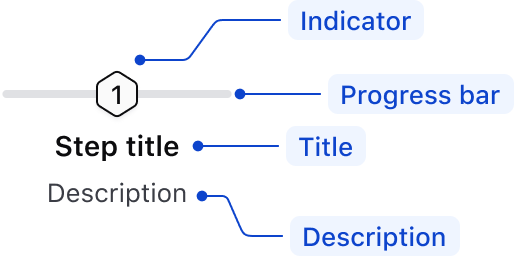
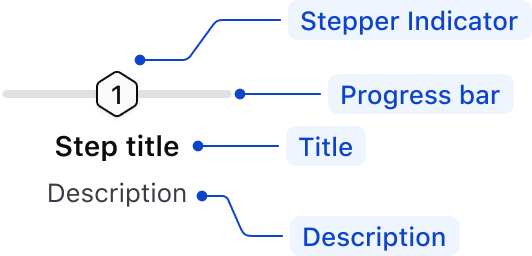
Updated text and images for Stepper Nav

diff --git a/website/docs/components/stepper/nav/partials/guidelines/guidelines.md b/website/docs/components/stepper/nav/partials/guidelines/guidelines.md
@@ -3,28 +3,48 @@
 ### When to use
 
 - In complex flows that are broken up into multiple steps to more easily segment content.
-- To communicate progress in a mult-step flow; what has been completed, and what has yet to be completed.
+- To communicate what has and has not been completed in a mult-step flow.
 - For a single, on-page experience that requires completion.
 
 ### When not to use 
 
-- Non-complex flow, use the [form pattern](/patterns/form-patterns) on a single page.
-- Don't require specific progress tracking, use structured page content.
+- For non-complex flows, use the [form pattern](/patterns/form-patterns) on a single page.
+- For simple forms or when progress doesn't need to be tracked, use structured page content.
 - For progression that doesn’t require a user to remain on the page for, use the [Stepper List](/components/stepper/list).
+
+## Interactive vs non-interactive
+
+The Stepper Nav allows for both interactive (default) and non-interactive variants. 
+
+### Interactive steps
+
+A user is able to navigate backwards within the Stepper Nav, however, they cannot progress forward. The reason for this is to ensure consistency in behavior and no dirty forms exist.
+
+![](/assets/components/stepper/navigation/stepper-navigation-interactive-steps.png)
+
+![The user's mouse is hovering over step one of four, showing its hover state.](/assets/components/stepper/navigation/stepper-navigation-interactive-backwards-movement.png)
+
+### Non-interactive steps
+
+The non-interactive variant is for read-only purposes and does not allow backwards navigation within the Stepper Nav.
+
+![](/assets/components/stepper/navigation/stepper-navigation-non-interactive-steps.png)
 
 ## Content
 
-Content in the Stepper should be brief and to the point. The Stepper has a title and an optional description.
+The Stepper Nav has a title and an optional description. Content should be brief and to the point.
 
 ### Title
 
-Titles are required and help users understand, from an overview perspective, what tasks need to be completed. Titles should be brief, and only a couple of words.
+Titles provide an overview to help users understand what tasks need to be completed. Titles are required and should be brief.
 
 ### Description
 
-Descriptions are optional and should be brief and provide additional context to the title. We recommend that all steps either have a description or none do.
+Descriptions are optional. They should provide additional context but be brief. We recommend that all steps either have a description or do not.
 
 !!! Do
+
+Ensure description visibility is consistent.
 
 ![The stepper with descriptions enabled in every step.](/assets/components/stepper/navigation/stepper-navigation-description-do.png)
 
@@ -32,32 +52,36 @@ Descriptions are optional and should be brief and provide additional context to 
 
 !!! Dont
 
+Don't mix and match description visibility.
+
 ![Steps one and four with enabled descriptions, while two and three have only a title.](/assets/components/stepper/navigation/stepper-navigation-description-dont.png)
 
 !!!
 
 ### Number of steps
 
-It is recommended that the max number of steps be 4, however if that isn’t possible, be mindful of how the content within the title and description wraps in smaller screens.
-
-## Interactive vs non-interactive
-
-The Stepper Nav allows for both interactive (default) and non-interactive variants. Once a user navigates backward with the interactive variant, they cannot progress forward through the Stepper. The Non-interactive variant is for read-only purposes and does not allow backwards navigation within the Stepper.
-
-![Subtitle "Interactive" followed by an interactive variant of the Stepper Nav. Another subtitle "Non-interactive" followed by a non-interactive variant of the Stepper Nav.](/assets/components/stepper/navigation/stepper-navigation-interactive-non-interactive.png)
-
-The interactive variant allows for backward movement after a step has been completed.
-
-![The user's mouse is hovering over step one, showing its hover state.](/assets/components/stepper/navigation/stepper-navigation-interactive-backwards-movement.png)
+We recommended the maximum number of steps be 4. If that isn’t possible, be mindful of how the content within the title and description wraps on smaller screens.
 
 ## Spacing
 
-To account for the absolutely positioned indicator within each Step, it is recommended to provide a 32px padding on the top of the Stepper and 24px below. 
+There should be 32px of padding above the Stepper Nav and 24px below.
 
 ![](/assets/components/stepper/navigation/stepper-navigation-spacing-example.png)
 
-## Mirroring experiences
+## Resizing behavior
 
-A [Button Set](/components/button-set) should always be present alongside a Stepper. Ensure that navigation between the Stepper and the Button Set matches. If a user can navigate backward within the Button Set, use the interactive variant. Otherwise, use the non-interactive variant. It is recommended that the Stepper’s width matches the width of the page’s content.
+Each Step will scale evenly within the Stepper Nav's width. This ensures consistency in hit targets for hover, active and focus states, especially in larger screens. Ensure that the Stepper Nav's total width matches the content of the page.
+
+### Responsive wrapping
+
+Once the browser width is 550px, the Steps within the Stepper Nav will wrap, and the progress bar will be removed.
+
+![The Stepper Nav is stacked vertically](/assets/components/stepper/navigation/stepper-navigation-responsive-behavior.png)
+
+## Composition with other components
+
+Always pair a Stepper Nav with a [Button Set](/components/button-set). Ensure that navigation interactions between the Stepper Nav and the Button Set match. 
+
+If a user can navigate backward within the Button Set, use the interactive variant. Otherwise, use the non-interactive variant.
 
 ![](/assets/components/stepper/navigation/stepper-navigation-matching-experiences.png)
